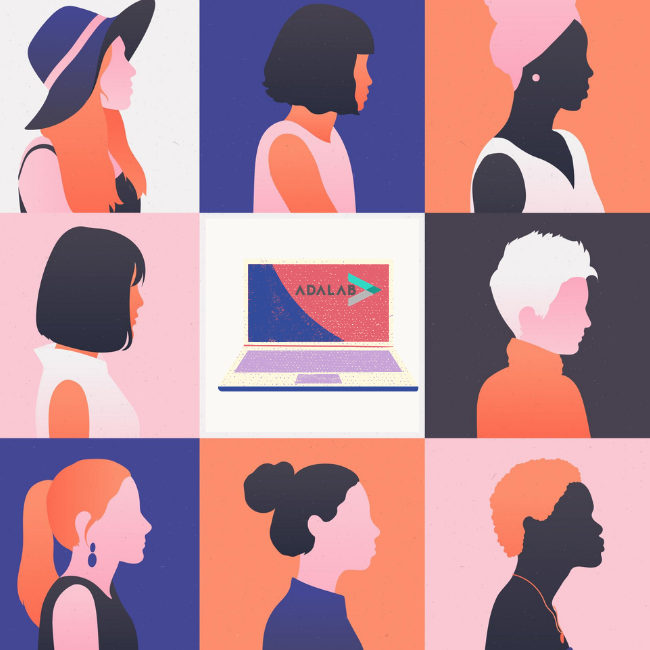
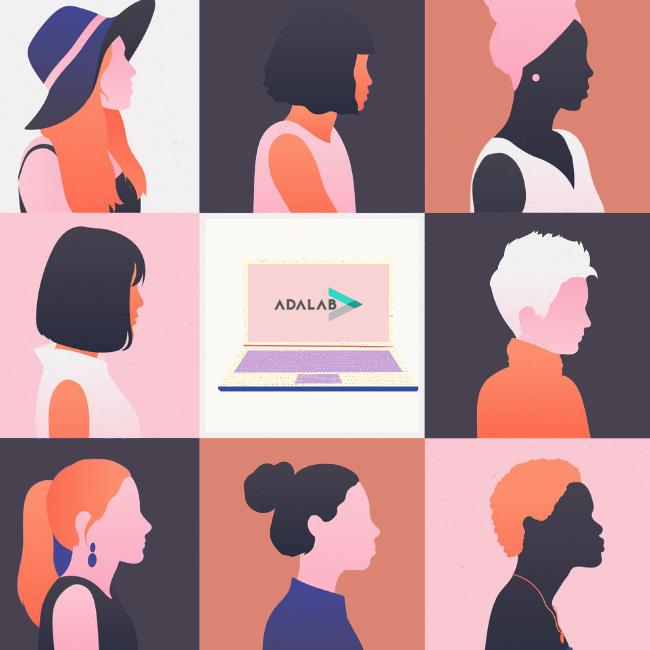
Create adalabers page

diff --git a/web/src/html/partials/index/main.html b/web/src/html/partials/index/main.html
@@ -1,29 +1,26 @@
 <main class="main">
     <section class="main__claim" id="claim">
-        <h2 class="main__claim--h2">El sector digital necesita más talento femenino que traiga diversidad, crecimiento,
-            innovación y aporte una sensibilidad y perspectivas diferentes.</h2>
-        <h3 class="main__claim--h3">Este espacio surge para dar a conocer a programadoras que lo valen: por su
+        <p class="main__claim--h2">El sector digital necesita más talento femenino que traiga diversidad, crecimiento,
+            innovación y aporte una sensibilidad y perspectivas diferentes.</p>
+        <p class="main__claim--h3">Este espacio surge para dar a conocer a programadoras que lo valen: por su
             conocimiento, su desempeño y su valentía para reinventarse y profesionalizarse en el sector tecnológico.
-        </h3>
+        </p>
     </section>
     <section class="main__menu">
-        <h2 class="main__menu--h2">¡Únete, ojea y descubre!</h2>
+        <h2 class="main__menu--title">¡Únete y descubre!</h2>
         <nav>
             <ul class="main__list">
-                <li class="button main__list--company">
-                    <p>¿Eres una empresa?</p>
-                    <img src="./assets/images/companies_hands.png" alt="botón ¿eres una adalaber?"
-                        title="botón ¿eres una adalaber?" class="button__image button__image--adalabers">
+                <li class="button btn btn-primary btn-lg">
+                    <a><img class="main__list--icon" src="./assets/images/companyWhiteIcon.png" alt="">¿Eres una
+                        empresa?</a>
                 </li>
-                <li class="button main__list--adalaber">
-                    <p>¿Eres una adalaber?</p>
-                    <img src="./assets/images/adalabers_hands.png" alt="botón ¿eres una adalaber?"
-                        title="botón ¿eres una adalaber?" class="button__image button__image--adalabers">
+                <li class="btn btn-primary btn-lg">
+                    <a><img class="main__list--icon" src="./assets/images/adalaberWhiteIcon.png" alt="">¿Eres una
+                        adalaber?</a>
                 </li>
-                <li class="button  main__list--visitor">
-                    <p>¿Eres un/a visitante?</p>
-                    <img src="./assets/images/visitors_hands.png" alt="botón ¿eres una adalaber?"
-                        title="botón ¿eres una adalaber?" class="button__image button__image--adalabers">
+                <li class="btn btn-primary btn-lg">
+                    <a><img class="main__list--icon" src="./assets/images/visitorWhiteIcon.png" alt="">¿Eres un/a
+                        visitante?</a>
                 </li>
             </ul>
         </nav>

diff --git a/web/src/scss/layout/_header.scss b/web/src/scss/layout/_header.scss
@@ -1,7 +1,6 @@
 .header {
   background: $color-primary;
   width: 100%;
-  font-family: $font-primary;
   height: 100vh;
   @media all and (min-width: 768px) {
     display: flex;
@@ -25,6 +24,7 @@
     text-align: center;
     margin: 20px auto;
     padding: 15px;
+    border-radius: 7px;
     box-shadow: 0 10px 10px 0 $color-shadow1, 0 1px 3px $color-shadow2;
     &--h1 {
       text-transform: lowercase;
@@ -35,15 +35,16 @@
       text-transform: uppercase;
       font-size: small;
       font-weight: 500;
+      margin: 0;
     }
   }
   &__subtitle {
     color: $color-white;
+    text-align: center;
     font-weight: 300;
     font-size: small;
-    line-height: 25px;
+    line-height: 15px;
     margin: auto 50px;
-    padding-bottom: 35px;
     font-style: oblique;
     @media all and (min-width: 768px) {
       margin-top: 40px;
@@ -71,18 +72,15 @@
       50%,
       80%,
       100% {
-        transform: translateY(-50%);
+        transform: translateY(-40%);
       }
       40% {
-        transform: translateY(-50px);
+        transform: translateY(-40px);
       }
       60% {
-        transform: translateY(-50px);
+        transform: translateY(-40px);
       }
     }
-    /* &--down {
-      transform: rotate(270deg);
-    } */
     @media all and (min-width: 768px) {
       width: 70px;
       height: 70px;

diff --git a/web/src/scss/pages/_index.scss b/web/src/scss/pages/_index.scss
@@ -1,0 +1,62 @@
+.main {
+  &__claim {
+    width: 100%;
+    display: block;
+    text-align: center;
+    &--h2 {
+      font-size: 13px;
+      font-weight: 300;
+      line-height: 20px;
+      padding: 40px 20px;
+      margin: 0;
+    }
+    &--h3 {
+      font-size: 13px;
+      font-weight: 300;
+      line-height: 20px;
+      padding: 40px 20px;
+      color: $color-white;
+      background: $color-primary;
+      margin: 0;
+    }
+  }
+  &__menu {
+    margin: 5px;
+    padding: 20px;
+    &--title {
+      font-size: 25px;
+      color: $color-primary;
+      text-align: center;
+      margin-top: 5px;
+      font-weight: 900;
+    }
+  }
+  &__list {
+    display: flex;
+    flex-direction: column;
+    justify-content: center;
+    list-style: none;
+    &--icon {
+      width: 28px;
+      margin-right: 13px;
+    }
+  }
+}
+
+.btn.btn-primary.btn-lg {
+  background-color: $color-secondary;
+  width: 90%;
+  border-color: $color-secondary;
+  box-shadow: $color-shadow1;
+  margin: 10px auto;
+  padding: 20px 5px;
+  font-size: 16px;
+  &:hover {
+    background-color: rgba($color-secondary, 0.7);
+  }
+  &:active {
+    background-color: $color-secondary;
+    border-color: $color-secondary;
+    box-shadow: none;
+  }
+}

diff --git a/web/src/html/partials/adalabers/main.html b/web/src/html/partials/adalabers/main.html
@@ -1,0 +1,26 @@
+<main class="main">
+    <ol class="main__list">
+        <li>
+            <div class="main__list--items">
+                <h2 class="main__list--numberSteps">01</h2>
+                <h3 class="main__list--textSteps">Completa el formulario con tus datos</h3>
+            </div>
+            <img class="main__list--visualSteps" src="./assets/images/form.png" alt="">
+
+        </li>
+        <li>
+            <div class="main__list--items">
+                <h2 class="main__list--numberSteps">02</h2>
+                <h3 class="main__list--textSteps">Revisa, modifica y acepta la previsualización</h3>
+            </div>
+            <img class="main__list--visualSteps" src="./assets/images/adalaber.png" alt="">
+        </li>
+        <li>
+            <div class="main__list--items">
+                <h2 class="main__list--numberSteps">03</h2>
+                <h3 class="main__list--textSteps">Comparte nuestra web en tu redes</h3>
+            </div>
+            <img class="main__list--visualSteps" src="./assets/images/sharing.png" alt="">
+        </li>
+    </ol>
+</main>

diff --git a/web/src/html/partials/topMenu.html b/web/src/html/partials/topMenu.html
@@ -1,7 +1,18 @@
-<nav class="topMenu__list">
-    <ul class="topMenu">
-        <li class="topMenu__list--company">EmpresaS</li>
-        <li class="topMenu__list--adalaber">Adalabers</li>
-        <li class="topMenu__list--visitor">Visitantes</li>
+<nav class="topMenu">
+    <ul class="topMenu__list">
+        <li class="topMenu__list--items">
+            <img class="topMenu__list--icon" src="./assets/images/companyIcon.png" alt="">
+            <p>Company</p>
+        </li>
+        <li class="topMenu__list--items">
+            <img class="topMenu__list--icon" src="./assets/images/adalaberIcon.png" alt="">
+            <p>Adalaber</p>
+        </li>
+        <li class="topMenu__list--items">
+            <img class="topMenu__list--icon" src="./assets/images/visitorIcon.png" alt="">
+            <p>Visitor</p>
+
+
+        </li>
     </ul>
 </nav>

diff --git a/web/src/html/index.html b/web/src/html/index.html
@@ -5,10 +5,13 @@
   <meta charset="UTF-8" />
   <meta name="viewport" content="width=device-width, initial-scale=1" />
   <title>Portfolios Adalabers</title>
+  <link rel="stylesheet" href="https://maxcdn.bootstrapcdn.com/bootstrap/4.0.0-beta.2/css/bootstrap.min.css"
+    integrity="sha384-PsH8R72JQ3SOdhVi3uxftmaW6Vc51MKb0q5P2rRUpPvrszuE4W1povHYgTpBfshb" crossorigin="anonymous" />
   <link rel="preconnect" href="https://fonts.gstatic.com">
-  <link href="https://fonts.googleapis.com/css2?family=Comfortaa:wght@300;500;700&display=swap" rel="stylesheet">
+  <link href="https://fonts.googleapis.com/css2?family=Comfortaa:wght@300;500;700;900&display=swap" rel="stylesheet">
   <link rel="stylesheet" href="./assets/css/main.css" />
   <link rel="icon" href="./assets/images/favicon.png" />
+
 </head>
 
 <body>

diff --git a/web/src/scss/core/_variables.scss b/web/src/scss/core/_variables.scss
@@ -1,12 +1,24 @@
 //fonts
 $font-primary: "Comfortaa", cursive;
 
-//main colors
-$color-primary: #434693;
+//MAIN COLORS
+
+//palette 1
+/* $color-primary: #434693;
 $color-secondary: #54c6c4;
 $color-third: coral;
-$color-white: rgb(240, 248, 255);
+$color-white: rgb(240, 248, 255); */
+
+//palette 2
+$color-primary: #2b3a50;
+$color-secondary: #db8473;
+$color-third: #dadada;
+$color-fourth: #99b898;
+$color-white: rgb(255, 255, 255);
 
 //color-shadows
-$color-shadow1: rgba(0, 0, 0, 0.2);
-$color-shadow2: rgba(0, 0, 0, 0.35);
+$color-shadow1: 0 2.8px 2.2px rgba(0, 0, 0, 0.034),
+  0 6.7px 5.3px rgba(0, 0, 0, 0.048), 0 12.5px 10px rgba(0, 0, 0, 0.06),
+  0 22.3px 17.9px rgba(0, 0, 0, 0.06), 0 41.8px 33.4px rgba(0, 0, 0, 0.06),
+  0 100px 80px rgba(0, 0, 0, 0.12);
+$color-shadow2: rgba(0, 0, 0, 0.8);

diff --git a/web/src/scss/components/_topMenu.scss b/web/src/scss/components/_topMenu.scss
@@ -1,0 +1,27 @@
+.topMenu {
+  &__list {
+    color: $color-fourth;
+    display: flex;
+    list-style: none;
+    justify-content: space-evenly;
+    position: fixed;
+    width: 100%;
+    font-size: 10px;
+    color: $color-secondary;
+    background-color: rgba(255, 255, 255, 0.8);
+    box-shadow: $color-shadow1;
+    padding: 10px 0;
+    &--items {
+      display: flex;
+      flex-direction: column;
+      align-items: center;
+      padding: auto;
+    }
+    &--icon {
+      width: 28px;
+      margin: auto;
+      align-self: center;
+      padding-bottom: 10px;
+    }
+  }
+}

diff --git a/web/src/scss/pages/_adalabers.scss b/web/src/scss/pages/_adalabers.scss
@@ -1,0 +1,27 @@
+.main {
+  font-size: 12px;
+  display: block;
+  color: $color-white;
+  &__list {
+    &--items {
+      margin-top: 100px;
+      padding: 20px 20px 20px 20px;
+      display: flex;
+      background: $color-primary;
+    }
+    &--numberSteps {
+      font-size: 50px;
+      font-weight: 700;
+      //   padding-top: 10px;
+    }
+    &--textSteps {
+      font-weight: 300;
+      padding: 10px 50px;
+      width: 100%;
+    }
+    &--visualSteps {
+      width: 150px;
+      margin: auto;
+    }
+  }
+}

diff --git a/web/src/scss/layout/_footer.scss b/web/src/scss/layout/_footer.scss
@@ -1,12 +1,12 @@
 .footer {
-  font-family: "Comfortaa", cursive;
+  border-top: solid 1px rgba($color-primary, 0.2);
   font-weight: 300;
   font-size: small;
-  padding: 10px 30px;
+  padding: 20px 30px;
   display: flex;
   justify-content: space-between;
   @media all and (min-width: 600px) {
-    padding: 20px 50px;
+    padding: 15px 50px;
   }
   &__left {
     margin-top: 10px;

diff --git a/web/src/scss/main.scss b/web/src/scss/main.scss
@@ -1,6 +1,9 @@
 @import "core/variables";
+@import "components/topMenu";
 @import "core/reset";
 @import "layout/header";
-@import "layout/main";
 @import "layout/footer";
 @import "pages/index";
+@import "pages/adalabers";
+@import "pages/companies";
+@import "pages/visitors";

diff --git a/web/src/scss/core/_reset.scss b/web/src/scss/core/_reset.scss
@@ -2,4 +2,5 @@
   box-sizing: border-box;
   margin: 0;
   padding: 0;
+  font-family: $font-primary;
 }
